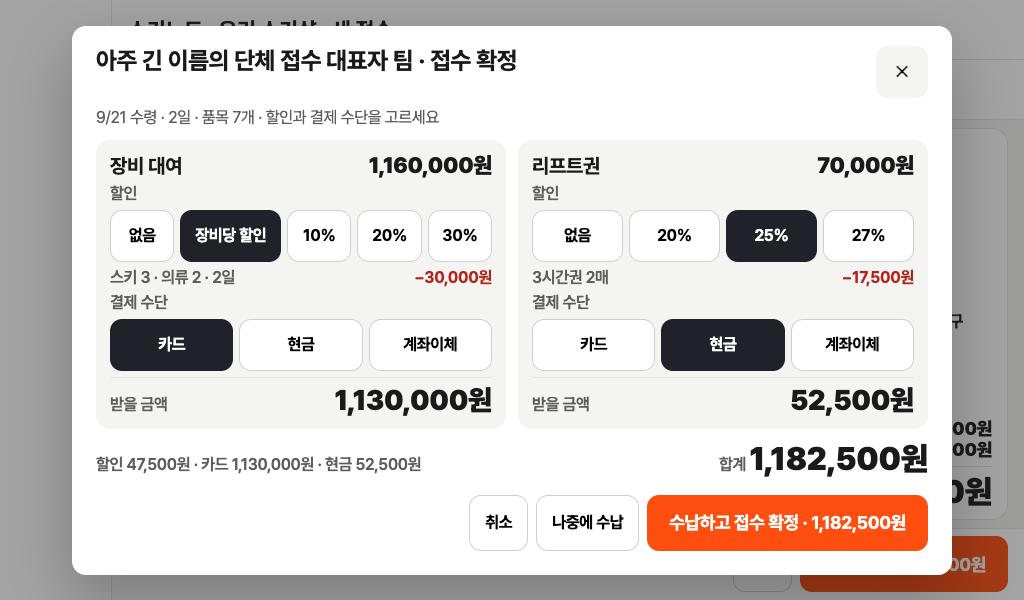
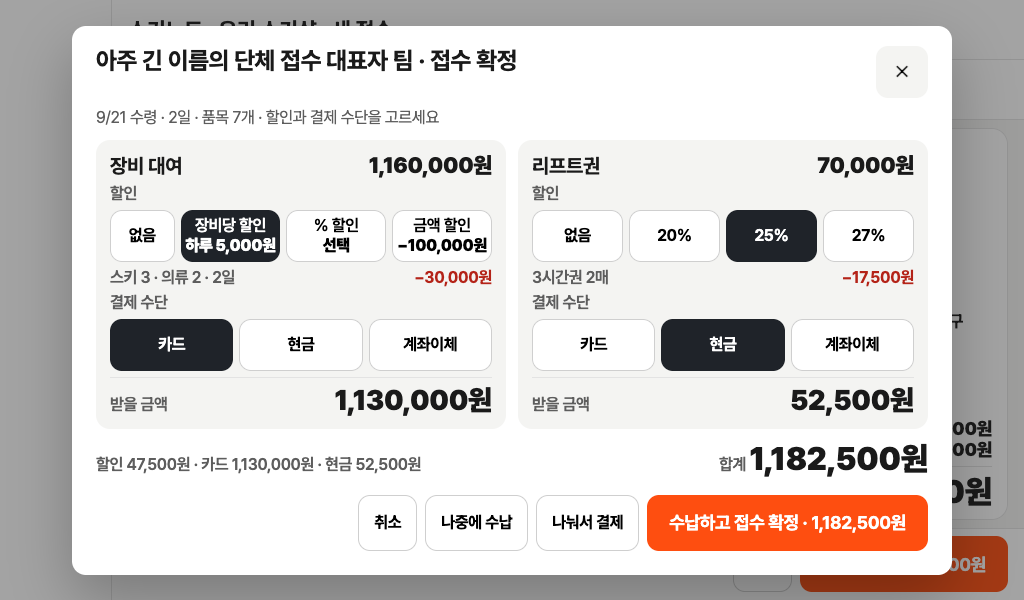
design(higgsfield): add the revised confirm window and the split-payment mockup
Previews and records for S07R (one discount at a time: per item per day,
percent or amount off the total; "나눠서 결제" entry) and S08 (per-person
split payment, UI only for the later card-reader work). docs/44 now holds
the owner's answers: resort template values come with the real database,
discounts never stack, split payment is drawn but not built yet.

diff --git a/design/higgsfield/pos-settings-v1/index.html b/design/higgsfield/pos-settings-v1/index.html
@@ -1,11 +1,13 @@
 <!doctype html><html lang="ko"><meta charset="utf-8"><meta name="viewport" content="width=device-width,initial-scale=1"><title>스키노트 시안 · 매장 설정과 접수 확정</title>
 <style>body{margin:0;background:#f3f1f8;color:#242031;font:17px/1.6 system-ui,sans-serif}header,main{max-width:1400px;margin:auto;padding:28px}h1{margin:0 0 6px}main{display:grid;grid-template-columns:repeat(auto-fill,minmax(520px,1fr));gap:20px;padding-top:0}article{background:#fff;border-radius:14px;padding:16px;box-shadow:0 1px 0 #ded9ec}h2{margin:0;font-size:19px}.v{margin:2px 0 10px;color:#5f33e1;font-weight:700;font-size:15px}img{width:100%;border-radius:10px;border:1px solid #e3e3e3;display:block}article p:last-child{margin:10px 0 0;font-size:16px}</style>
-<header><h1>스키노트 시안 · 매장 설정과 접수 확정 (pos-settings-v1)</h1><p>2026-09-21 · 6장 · 18 크레딧 · 다시 뽑기 0 · 요청서 <a href="../../../docs/44-higgsfield-settings-payment-screens.md">docs/44</a> · <a href="fit-check/index.html">실제 크기 검사</a></p></header>
+<header><h1>스키노트 시안 · 매장 설정과 접수 확정 (pos-settings-v1)</h1><p>2026-09-21 · 8장 · 24 크레딧 · 다시 뽑기 0 · 요청서 <a href="../../../docs/44-higgsfield-settings-payment-screens.md">docs/44</a> · <a href="fit-check/index.html">실제 크기 검사</a></p></header>
 <main>
 <article><h2>S01 · 관리 · 매장 설정 · 수령 장소(구역별)</h2><p class="v">통과 · 참조 M06 + M01</p><a href="s01-settings-places.jpg"><img src="s01-settings-places.jpg" alt="관리 · 매장 설정 · 수령 장소(구역별)" loading="lazy"></a><p>구역 칩(만선 5 · 설천 4 · 기타 3 · 구역 추가) 아래에 고른 구역의 장소만 행으로 보인다. 왼쪽 탭 8개(할인 추가), 하단에 `스키장 템플릿` · `장소 추가`. 레일 7개 · 헤더 완전. 샘플 표기: `매장 정보` 옆 숫자 0은 요청에 없던 값(기록만).</p></article>
 <article><h2>S02 · 팝업 · 스키장 템플릿</h2><p class="v">통과 · 참조 M06 + P20</p><a href="s02-popup-resort-template.jpg"><img src="s02-popup-resort-template.jpg" alt="팝업 · 스키장 템플릿" loading="lazy"></a><p>왼쪽에서 스키장을 고르면 오른쪽에 채워지는 값(구역 · 수령 장소 · 반납 타임 · 리프트권 권종)이 보인다. `요금과 할인은 바뀌지 않습니다` · `이미 있는 값은 지우지 않고 없는 항목만 추가합니다` 안내 포함. 어두운 배경(부모 화면)의 레일 오탈자는 배경이라 기록만.</p></article>
 <article><h2>S04 · 관리 · 매장 설정 · 할인</h2><p class="v">통과 · 참조 M06 + M01</p><a href="s04-settings-discounts.jpg"><img src="s04-settings-discounts.jpg" alt="관리 · 매장 설정 · 할인" loading="lazy"></a><p>할인 종류 칩 3개(장비당 · 장비 전체 · 리프트권) 아래에 규칙 행. 장비당 할인은 품목마다 금액(스키 −5,000원 등)을 가진다. 안내 줄 `접수 확정 창의 할인 버튼으로 나옵니다 · 리프트권은 따로 계산`.</p></article>
 <article><h2>S05 · 새 접수 · 3 일정·장소 (구역 · 반납 타임 4개)</h2><p class="v">통과(메모) · 참조 P12 + P01</p><a href="s05-intake-schedule-areas.jpg"><img src="s05-intake-schedule-areas.jpg" alt="새 접수 · 3 일정·장소 (구역 · 반납 타임 4개)" loading="lazy"></a><p>수령 장소는 `매장 수령` + 구역 버튼(만선 · 설천 · 기타)만 보이고, 고른 구역 버튼은 두 줄(`만선` / `티롤 앞`)로 바뀐다. 반납 시간은 4개 + `직접`. 요약 아래가 `장비 대여` · `리프트권` · `합계`로 나뉜다. 메모: 첫 줄 `수령일`만 이름표가 버튼 위에 그려짐(나머지는 왼쪽) — 구현은 다섯 줄 모두 왼쪽 이름표. 두 줄 버튼의 작은 글자가 13px쯤으로 그려짐 — 구현은 16px.</p></article>
 <article><h2>S06 · 팝업 · 수령 장소 선택(구역별)</h2><p class="v">통과 · 참조 P12 + P20</p><a href="s06-popup-place.jpg"><img src="s06-popup-place.jpg" alt="팝업 · 수령 장소 선택(구역별)" loading="lazy"></a><p>구역 칩으로 구역을 바꾸고 장소를 3열 큰 버튼(64px)으로 고른다. 빈 칸은 `직접 입력`. 하단 `취소` · `매장 수령으로` · `이 장소로 선택`. 어두운 배경의 깨진 시간 글자는 배경이라 기록만.</p></article>
-<article><h2>S07 · 팝업 · 접수 확정 · 할인과 수납</h2><p class="v">통과(메모) · 참조 P12 + P21</p><a href="s07-popup-confirm-payment.jpg"><img src="s07-popup-confirm-payment.jpg" alt="팝업 · 접수 확정 · 할인과 수납" loading="lazy"></a><p>장비 대여와 리프트권을 두 칸으로 나눠 각각 금액 · 할인 버튼 · 할인액 · 결제 수단 · 받을 금액을 보인다. 아래에 합계, 하단 `취소` · `나중에 수납` · `수납하고 접수 확정 · N원`. 메모: 왼쪽 아래 요약의 `받을 47,500원`은 `할인 47,500원`의 오기(한 낱말) — 구현은 `할인`. 주 버튼 글자가 작게 그려짐 — 구현은 18px.</p></article>
+<article><h2>S07 · 팝업 · 접수 확정 · 할인과 수납</h2><p class="v">S07R로 대체 · 참조 P12 + P21</p><a href="s07-popup-confirm-payment.jpg"><img src="s07-popup-confirm-payment.jpg" alt="팝업 · 접수 확정 · 할인과 수납" loading="lazy"></a><p>장비 대여와 리프트권을 두 칸으로 나눠 각각 금액 · 할인 버튼 · 할인액 · 결제 수단 · 받을 금액을 보인다. 아래에 합계, 하단 `취소` · `나중에 수납` · `수납하고 접수 확정 · N원`. 메모: 왼쪽 아래 요약의 `받을 47,500원`은 `할인 47,500원`의 오기(한 낱말) — 구현은 `할인`. 주 버튼 글자가 작게 그려짐 — 구현은 18px.</p></article>
+<article><h2>S07R · 팝업 · 접수 확정 · 할인 종류 넷 + 나눠서 결제 (S07 고침)</h2><p class="v">통과 · 참조 P12 + S07</p><a href="s07r-popup-confirm-payment.jpg"><img src="s07r-popup-confirm-payment.jpg" alt="팝업 · 접수 확정 · 할인 종류 넷 + 나눠서 결제 (S07 고침)" loading="lazy"></a><p>사용자 답변(2026-09-21) 반영: 장비 할인은 `없음` · `장비당 할인 / 하루 5,000원` · `% 할인 / 선택` · `금액 할인 / 선택` 네 칸 중 하나만. 숫자가 규칙과 맞음(스키 3 · 의류 2 · 2일 → −42,000원, 합계 170,500원, 요약 `할인 59,500원 · 카드 118,000원 · 현금 52,500원`). 하단에 `나눠서 결제` 입구. 두 줄 버튼의 작은 글자는 구현에서 16px.</p></article>
+<article><h2>S08 · 팝업 · 나눠서 결제(일행별)</h2><p class="v">통과 · 참조 P12 + S07</p><a href="s08-popup-split-payment.jpg"><img src="s08-popup-split-payment.jpg" alt="팝업 · 나눠서 결제(일행별)" loading="lazy"></a><p>더치페이 창. 나누는 방법 세 칸(`일행별` · `똑같이 나누기` · `금액 직접 나누기`), 일행마다 품목 · 금액 · `카드/현금` · `결제`(끝나면 초록 `결제 완료`), 아래 `남은 금액`, 하단 `‹ 접수 확정 창으로` · `남은 금액은 나중에 수납` · 주 버튼 `다음 결제 · 이서연 70,250원`. 화면만 그린 것이고 카드 단말 연동은 나중.</p></article>
 </main></html>

diff --git a/design/higgsfield/pos-settings-v1/fit-check/index.html b/design/higgsfield/pos-settings-v1/fit-check/index.html
@@ -25,7 +25,8 @@ button{font:inherit;letter-spacing:inherit;min-height:52px;border:0;border-radiu
 .btns{display:flex;gap:6px;min-width:0}.minus{color:#b42318;font-weight:700}.take{display:flex;justify-content:space-between;align-items:baseline;box-shadow:inset 0 1px 0 #e3e3e3;padding-top:6px;color:#5d5d5d;font-weight:600}.take b{color:#1a1a1a;font-size:28px;line-height:34px}
 .dfoot{display:flex;justify-content:flex-end;gap:8px;padding-top:6px}.chips{display:flex;gap:8px}.grid{display:grid;grid-template-columns:repeat(3,1fr);gap:8px}.grid button{min-height:64px;font-size:20px}
 .note{color:#5d5d5d;line-height:22px}
-body[data-show="s06"] #d6,body[data-show="s07"] #d7{display:flex}
+body[data-show="s06"] #d6,body[data-show="s07"] #d7,body[data-show="s08"] #d8{display:flex}
+.people{display:flex;flex-direction:column;gap:6px}.person{display:flex;align-items:center;gap:12px;min-height:64px;padding:6px 8px 6px 14px;border-radius:12px;box-shadow:inset 0 0 0 1px #e3e3e3;min-width:0}.person strong{flex:0 1 auto;min-width:0;overflow:hidden;white-space:nowrap;font-size:20px}.person>span:not(.btns):not(.done){flex:1 1 0;min-width:0;overflow:hidden;white-space:nowrap;color:#5d5d5d}.person>b{flex:0 0 auto;font-size:20px;white-space:nowrap}.person .btns{flex:0 0 150px}.done{flex:0 0 96px;text-align:center;background:#247a3d;color:#fff;border-radius:999px;font-weight:700;line-height:32px}.person>.sec{flex:0 0 96px}
 </style>
 <body>
 <div class="frame"><div class="rail"></div><div class="work">
@@ -53,11 +54,20 @@ body[data-show="s06"] #d6,body[data-show="s07"] #d7{display:flex}
   <div class="dfoot"><button class="sec">취소</button><button class="sec">매장 수령으로</button><button class="primary">이 장소로 선택</button></div></div></div></div>
 <div class="dim" id="d7"><div class="dlg" id="dlg7" style="--w:880px"><header><h2>아주 긴 이름의 단체 접수 대표자 팀 · 접수 확정</h2><button>✕</button></header><div class="in"><p class="sub">9/21 수령 · 2일 · 품목 7개 · 할인과 결제 수단을 고르세요</p>
   <div class="cards">
-    <div class="card"><div class="head"><span>장비 대여</span><b>1,160,000원</b></div><span class="lab">할인</span><div class="btns"><button class="opt">없음</button><button class="opt on" style="flex:1.7 1 0">장비당 할인</button><button class="opt">10%</button><button class="opt">20%</button><button class="opt">30%</button></div><div class="line"><span>스키 3 · 의류 2 · 2일</span><span class="minus">−30,000원</span></div><span class="lab">결제 수단</span><div class="btns"><button class="opt on">카드</button><button class="opt">현금</button><button class="opt">계좌이체</button></div><div class="take"><span>받을 금액</span><b>1,130,000원</b></div></div>
+    <div class="card"><div class="head"><span>장비 대여</span><b>1,160,000원</b></div><span class="lab">할인</span><div class="btns"><button class="opt" style="flex:.6 1 0">없음</button><button class="opt two on"><small>장비당 할인</small><b>하루 5,000원</b></button><button class="opt two"><small>% 할인</small><b>선택</b></button><button class="opt two"><small>금액 할인</small><b>−100,000원</b></button></div><div class="line"><span>스키 3 · 의류 2 · 2일</span><span class="minus">−30,000원</span></div><span class="lab">결제 수단</span><div class="btns"><button class="opt on">카드</button><button class="opt">현금</button><button class="opt">계좌이체</button></div><div class="take"><span>받을 금액</span><b>1,130,000원</b></div></div>
     <div class="card"><div class="head"><span>리프트권</span><b>70,000원</b></div><span class="lab">할인</span><div class="btns"><button class="opt">없음</button><button class="opt">20%</button><button class="opt on">25%</button><button class="opt">27%</button></div><div class="line"><span>3시간권 2매</span><span class="minus">−17,500원</span></div><span class="lab">결제 수단</span><div class="btns"><button class="opt">카드</button><button class="opt on">현금</button><button class="opt">계좌이체</button></div><div class="take"><span>받을 금액</span><b>52,500원</b></div></div>
   </div>
   <div class="line total"><span id="split">할인 47,500원 · 카드 1,130,000원 · 현금 52,500원</span><span>합계 <b>1,182,500원</b></span></div>
-  <div class="dfoot"><button class="sec">취소</button><button class="sec">나중에 수납</button><button class="primary">수납하고 접수 확정 · 1,182,500원</button></div></div></div></div>
+  <div class="dfoot"><button class="sec">취소</button><button class="sec">나중에 수납</button><button class="sec">나눠서 결제</button><button class="primary">수납하고 접수 확정 · 1,182,500원</button></div></div></div></div>
+<div class="dim" id="d8"><div class="dlg" id="dlg8" style="--w:880px"><header><h2>아주 긴 이름의 단체 접수 대표자 팀 · 나눠서 결제</h2><button>✕</button></header><div class="in"><p class="sub">받을 금액 1,170,500원 · 일행 7명 · 사람마다 따로 결제합니다</p>
+  <div class="row" style="gap:8px"><div class="chips" style="flex:1 1 0"><button class="opt on">일행별</button><button class="opt">똑같이 나누기</button><button class="opt">금액 직접 나누기</button></div><span style="flex:0 0 auto;display:flex;gap:6px;align-items:center;font-weight:600"><button style="width:52px">‹</button> 1 / 3쪽 <button style="width:52px">›</button></span></div>
+  <div class="people">
+    <div class="person"><strong>김민수</strong><span>스키 1 · 의류 1 · 3시간권 1</span><b>1,070,250원</b><span class="btns"><button class="opt on">카드</button><button class="opt">현금</button></span><span class="done">결제 완료</span></div>
+    <div class="person"><strong>한국대학교 스키동아리 회장</strong><span>스키 1 · 의류 1 · 3시간권 1</span><b>70,250원</b><span class="btns"><button class="opt">카드</button><button class="opt on">현금</button></span><button class="sec">결제</button></div>
+    <div class="person"><strong>박지호</strong><span>스키 1</span><b>30,000원</b><span class="btns"><button class="opt on">카드</button><button class="opt">현금</button></span><button class="sec">결제</button></div>
+  </div>
+  <div class="line total"><span>결제 완료 1명 · 1,070,250원</span><span>남은 금액 <b>100,250원</b></span></div>
+  <div class="dfoot"><button class="sec">‹ 접수 확정 창으로</button><button class="sec">남은 금액은 나중에 수납</button><button class="primary">다음 결제 · 한국대학교 스키동아리 회장 70,250원</button></div></div></div></div>
 </div>
 <script>document.body.dataset.show=location.hash.slice(1)||'s05';</script>
 </body></html>

diff --git a/docs/44-higgsfield-settings-payment-screens.md b/docs/44-higgsfield-settings-payment-screens.md
@@ -1,6 +1,6 @@
 # 44. 힉스필드 시안 · 매장 설정(구역 · 템플릿 · 할인)과 접수 확정 창
 
-작성 2026-09-21 · 묶음 [`design/higgsfield/pos-settings-v1/`](../design/higgsfield/pos-settings-v1/index.html) · 6장 · 18 크레딧 · 다시 뽑기 0 · 브랜치 `feat/pos-ui-v4`
+작성 2026-09-21 · 묶음 [`design/higgsfield/pos-settings-v1/`](../design/higgsfield/pos-settings-v1/index.html) · 8장 · 24 크레딧 · 다시 뽑기 0 · 브랜치 `feat/pos-ui-v4`
 
 ## 1. 왜 다시 그렸나
 
@@ -12,10 +12,11 @@ v4를 체험해 본 뒤 나온 요청이다(2026-09-21).
 4. 접수 화면의 수령 장소도 장소가 10개를 넘으면 깨지므로 **구역만 버튼으로** 보이고 장소는 팝업에서 고른다.
 5. 접수 직전에 **할인**을 고른다: 장비당 N원(예: 스키 5,000원씩), 장비 전체 %, 리프트권은 따로 %(20 · 25 · 27% 등). 매장 설정에서 정한다.
 6. **접수 확정할 때 금액을 계산해 그 자리에서 수납**한다. 장비는 카드, 리프트권은 현금으로 받는 일이 많으니 **둘을 나눠서 결제 수단을 고른다.**
+7. (추가) **일행마다 따로 계산**하는 경우(더치페이)의 화면. 나중에 카드 단말을 붙였을 때 쓴다. 지금은 **화면 시안만.**
 
 확인한 사실: 이 기능들은 v4 작업에서 지워진 것이 아니라 **포스 화면에 구현된 적이 없다.** `docs/35`(51 매장 설정 탭 `수령 장소 · 할인 · 수령·반납 시간` / 41-1 선택 그룹 `수령 장소 · 구역 · 할인율`)에는 있었지만, v3부터 포스의 매장 설정은 요금 · 장소(한 줄 목록) · 차량 · 반납 타임 · 직원 · 매장 정보 · 야간 기준만 있었고 v4 시안도 그 상태를 기준으로 그렸다. 접수 확정 때 수납하는 창은 어디에도 없었다(수납은 접수 상세 · 준비·지급 카드 · 정산·마감에서 따로). v4에서 새로 생긴 잘못은 하나다: 3단계 `반납 시간`이 설정의 앞 3개만 보였다.
 
-## 2. 시안 6장
+## 2. 시안 8장
 
 기준 화면은 새로 만들지 않고 이미 검수한 `pos-rest-v1`의 M06(매장 설정) · P12(새 접수 3단계) · P20/P21(팝업)을 참조로 넘겼다. 설정은 `requests.json` 그대로: `gpt_image_2_5` · high · 2k · 27:16 · 장당 3 크레딧. 워크스페이스는 개인 워크스페이스 그대로.
 
@@ -26,14 +27,19 @@ v4를 체험해 본 뒤 나온 요청이다(2026-09-21).
 | S04 | 관리 · 매장 설정 · 할인 | M06 + M01 | 통과 |
 | S05 | 새 접수 · 3 일정·장소(구역 버튼 · 반납 타임 4개) | P12 + P01 | 통과(메모) |
 | S06 | 팝업 · 수령 장소 선택 | P12 + P20 | 통과 |
-| S07 | 팝업 · 접수 확정 · 할인과 수납 | P12 + P21 | 통과(메모) |
+| S07 | 팝업 · 접수 확정 · 할인과 수납(첫 판) | P12 + P21 | S07R로 대체 |
+| S07R | 팝업 · 접수 확정 · 할인 종류 넷 + `나눠서 결제` 입구 | P12 + S07 | 통과 |
+| S08 | 팝업 · 나눠서 결제(일행별 · 더치페이) | P12 + S07 | 통과 |
 
 S03(반납 타임 설정 화면)은 지금의 행 목록과 모양이 같아서 뽑지 않았다.
+
+S07R · S08은 사용자 답변(3절 아래)을 받은 뒤 그린 둘째 묶음이다. S07R은 다시 뽑기가 아니라 내용이 바뀐 새 판이다: 할인 칸이 넷으로 바뀌고 `나눠서 결제` 입구가 생겼으며, 첫 판의 `받을/할인` 오기와 예시 할인액도 바로잡혔다.
 
 검수 메모(다시 뽑지 않음 · 구조 결함 아님):
 
 - S05: 첫 줄 `수령일`만 이름표가 버튼 위에 그려졌다. 구현은 지금처럼 다섯 줄 모두 왼쪽 이름표. 두 줄 버튼의 작은 글자가 13px쯤으로 그려졌다 → 구현은 16px.
-- S07: 왼쪽 아래 요약의 `받을 47,500원`은 `할인 47,500원`의 오기(한 낱말). 장비 할인액 `−30,000원`은 예시 숫자다(3절 규칙대로면 스키 3 · 의류 2 · 2일은 −42,000원). 주 버튼 글자가 작게 그려졌다 → 구현은 18px.
+- S04: 할인 종류 칩이 셋으로 그려졌다(장비당 · 장비 전체 · 리프트권). 답변에 따라 구현은 넷: `장비당 할인` · `% 할인` · `금액 할인` · `리프트권 할인`. 모양이 같아 다시 뽑지 않는다.
+- S07(첫 판): 왼쪽 아래 요약의 `받을 47,500원`은 `할인 47,500원`의 오기(한 낱말). 장비 할인액 `−30,000원`은 예시 숫자다(3절 규칙대로면 스키 3 · 의류 2 · 2일은 −42,000원). 주 버튼 글자가 작게 그려졌다 → 구현은 18px.
 - S01의 `매장 정보 0`, 팝업 뒤 어두운 배경의 오탈자는 샘플·배경이라 기록만.
 
 ## 3. 그림에 안 보이는 동작 (구현 전에 확인할 것)
@@ -42,10 +48,11 @@ S03(반납 타임 설정 화면)은 지금의 행 목록과 모양이 같아서 
 |---|---|---|
 | 1 | 구역 | 매장 설정에 구역 목록(순서 있음)을 두고, 장소는 구역에 속한다. 지금 있는 장소는 이름이 구역 이름으로 시작하면 그 구역으로, 아니면 `기타`로 옮긴다. |
 | 2 | 접수의 수령 장소 | `매장 수령` + 구역 버튼(최대 3개 · 넘으면 끝이 `더 보기`). 구역을 누르면 S06 창: 구역 칩 + 장소 큰 버튼 3열 × 3줄, 넘으면 쪽 나눔, `직접 입력`. 고르면 구역 버튼이 두 줄(`만선` / `티롤 앞`)로 바뀐다. |
-| 3 | 스키장 템플릿 | 구역 · 수령 장소 · 반납 타임 · 리프트권 권종을 채운다. **요금과 할인은 건드리지 않는다.** 이미 있는 값은 지우지 않고 없는 항목만 추가한다. 무주덕유산리조트 · 지산포레스트리조트부터. **각 스키장의 실제 장소 · 권종 목록은 받아서 넣어야 한다**(지금은 예시 값). |
+| 3 | 스키장 템플릿 | 구역 · 수령 장소 · 반납 타임 · 리프트권 권종을 채운다. **요금과 할인은 건드리지 않는다.** 이미 있는 값은 지우지 않고 없는 항목만 추가한다. 무주덕유산리조트 · 지산포레스트리조트부터. **실제 장소 · 권종 목록은 나중에 실제 DB를 연결할 때 한 번에 정리한다(사용자 · 2026-09-21).** 그때까지는 예시 값을 넣어 둔다. |
 | 4 | 반납 타임 | 기본값에 `오전타임 후 12:00` 추가. 접수 화면에는 설정에 있는 대로 다 나오고, 폭이 모자라면 앞 3개 + `더 보기`(창에서 고름). |
-| 5 | 할인 규칙 | ① 장비당 할인: 품목마다 금액(스키 −5,000원 …) × 수량 × 이용 일수. ② 장비 전체 할인: 장비 합계의 N%. ③ 리프트권 할인: 리프트권 합계의 N%. ①과 ②는 둘 중 하나만 고른다. %는 종류마다 3개까지, 계산은 10원 미만 버림. 할인액은 품목 행의 할인으로 나눠 저장한다(지금 자료 구조 그대로). |
-| 6 | 접수 확정 창 | `접수 확정`을 누르면 S07 창. 장비 · 리프트권 각각 금액 → 할인 → 받을 금액 → 결제 수단(카드 · 현금 · 계좌이체). `수납하고 접수 확정`은 접수를 만들고 수납을 결제 수단별로 따로 기록한다(장비 카드 1건 + 리프트권 현금 1건). `나중에 수납`은 할인만 적용해 미수로 접수한다(예약). 장비만 또는 리프트권만 있으면 한 칸만 보인다. `일행·장비 추가`도 같은 창(`추가 확정`). |
+| 5 | 할인 규칙 | **확정(사용자 · 2026-09-21): 중복 없이 하나만.** 장비 쪽은 `없음` · `장비당 할인`(품목마다 금액 × 수량 × **이용 일수** — 하루 기준, 예: 스키 하루 5,000원) · `% 할인`(장비 합계의 N%) · `금액 할인`(**총 금액에서 N원**) 중 하나. `% 할인`과 `금액 할인`은 누르면 매장 설정에 넣어 둔 값(예: 10 · 20 · 30% / 5,000 · 10,000원)과 `직접 입력`을 고르는 작은 창이 뜨고, 고른 값이 버튼 둘째 줄에 보인다. 리프트권은 따로 `없음` · 20 · 25 · 27% 같은 % 버튼. 계산은 10원 미만 버림. 할인액은 품목 행의 할인으로 나눠 저장한다(지금 자료 구조 그대로). `금액 할인`은 장비 합계에서 뺀다(리프트권은 %만). |
+| 6 | 접수 확정 창 | `접수 확정`을 누르면 S07R 창. 장비 · 리프트권 각각 금액 → 할인 → 받을 금액 → 결제 수단(카드 · 현금 · 계좌이체). `수납하고 접수 확정`은 접수를 만들고 수납을 결제 수단별로 따로 기록한다(장비 카드 1건 + 리프트권 현금 1건). `나중에 수납`은 할인만 적용해 미수로 접수한다(예약). 장비만 또는 리프트권만 있으면 한 칸만 보인다. `일행·장비 추가`도 같은 창(`추가 확정`). |
+| 6-1 | 나눠서 결제(S08) | **화면만 먼저 그려 둔다(사용자 · 2026-09-21). 구현은 카드 단말을 붙일 때.** `일행별`은 그 사람 품목의 할인 뒤 금액, `똑같이 나누기`는 받을 금액 ÷ 인원(나머지는 첫 사람), `금액 직접 나누기`는 숫자판. 사람마다 `카드/현금`을 고르고 `결제`를 누르면 그 금액만 수납으로 기록한다(자료는 이미 품목별 수납 배분을 지원). 주 버튼은 늘 다음 사람(`다음 결제 · 이서연 70,250원`), 다 끝나면 `접수 확정`. 3명을 넘으면 쪽으로 넘긴다. |
 | 7 | 결제 수단 기본값 | 장비는 카드, 리프트권은 현금. |
 
 ## 4. 실제 크기 검사
@@ -58,7 +65,8 @@ S03(반납 타임 설정 화면)은 지금의 행 목록과 모양이 같아서 
 | 1024×768 | 잘림 0 | 잘림 0 | 잘림 0 |
 | 907×648 | 반납 타임 5칸의 이름표가 4px 넘침 · 요약 `수령` 줄 넘침 | 잘림 0 | 잘림 0 |
 
-- 접수 확정 창은 1024×600에 **여유 3px로 들어간다.** 줄을 더 넣을 자리는 없다. 창 폭은 880px(지금 창은 760px)로 넓힌다.
+- 나눠서 결제 창(S08)은 일행 3명 + 쪽수 + 긴 이름 · 7자리 금액으로 **526px**(1024×600 · 907×648 · 1024×768 모두 잘림 0). 한 쪽에 3명까지다.
+- 접수 확정 창은 할인 네 칸 · 하단 버튼 네 개로 바꾼 뒤에도 549px다. 1024×600에 **여유 3px로 들어간다.** 줄을 더 넣을 자리는 없다. 창 폭은 880px(지금 창은 760px)로 넓힌다.
 - 907×648의 넘침은 구현 규칙으로 푼다: 반납 타임은 폭이 모자라면 앞 3개 + `더 보기`, 요약 줄은 지금처럼 조각을 빼서 맞춘다.
 
 ## 5. 구현 순서(시안 확인 뒤)
@@ -67,4 +75,5 @@ S03(반납 타임 설정 화면)은 지금의 행 목록과 모양이 같아서 
 2. 매장 설정 화면: 수령 장소(구역 칩 · 구역 추가) · 할인 탭 · 스키장 템플릿 창 · 반납 타임 기본값.
 3. 새 접수 3단계: 구역 버튼 + 수령 장소 창, 반납 타임 전부(+ `더 보기`), 요약의 장비 · 리프트권 나눔.
 4. 접수 확정 창: 할인 · 결제 수단 · 수납 기록 · `나중에 수납`.
+   - `나눠서 결제`(S08)는 이번 구현 범위가 아니다. 입구 버튼도 카드 단말을 붙일 때 같이 넣는다.
 5. 검사: 업무 검사 · 규칙 검사에 새 화면과 창 추가(1024×600 · 907×648 포함), `docs/42` · `docs/43` 갱신.

diff --git a/design/higgsfield/README.md b/design/higgsfield/README.md
@@ -50,4 +50,4 @@
 | `pos-main-v1/` | POS 메인 화면 8종 + 목록 비교안 1종 | [docs/38-higgsfield-pos-main-screens.md](../../docs/38-higgsfield-pos-main-screens.md) | 9장 생성·검수 완료 (2026-09-21, 14장·42 크레딧) · [보기](pos-main-v1/index.html) |
 | `pos-rest-v1/` | 나머지 화면 33종: 포스 화면 9 · 팝업 13 · 관리 8 · 기사 태블릿 3 | [docs/40-higgsfield-pos-rest-screens.md](../../docs/40-higgsfield-pos-rest-screens.md) | 같은 템플릿(앵커 P01) + 기준 화면 4종(P02R 카드 목록 · M01 관리 · P20 팝업 · D01 기사) · [보기](pos-rest-v1/index.html) |
 | `driver-phone-v1/` | 기사 휴대폰 화면 4종(차량 운행 · 배달 처리 · 차량 보관 · 못 받음·방문 결과) · 세로 9:16 · 기준 360×640 | [docs/41-higgsfield-driver-phone-screens.md](../../docs/41-higgsfield-driver-phone-screens.md) | 4장 · 12 크레딧 · 재생성 0 · 실제 크기 검사 포함 · [보기](driver-phone-v1/index.html) |
-| `pos-settings-v1/` | 매장 설정(구역별 수령 장소 · 스키장 템플릿 · 할인) 3종 + 새 접수 3단계(구역 버튼 · 반납 타임) 1종 + 팝업 2종(수령 장소 선택 · 접수 확정의 할인·수납) | [docs/44-higgsfield-settings-payment-screens.md](../../docs/44-higgsfield-settings-payment-screens.md) | 6장 · 18 크레딧 · 재생성 0 · 실제 크기 검사 포함(2026-09-21) · [보기](pos-settings-v1/index.html) |
+| `pos-settings-v1/` | 매장 설정(구역별 수령 장소 · 스키장 템플릿 · 할인) 3종 + 새 접수 3단계(구역 버튼 · 반납 타임) 1종 + 팝업 2종(수령 장소 선택 · 접수 확정의 할인·수납) | [docs/44-higgsfield-settings-payment-screens.md](../../docs/44-higgsfield-settings-payment-screens.md) | 8장 · 24 크레딧 · 재생성 0(S07R은 답변 반영 새 판) · 나눠서 결제(더치페이) 화면 포함 · 실제 크기 검사 포함(2026-09-21) · [보기](pos-settings-v1/index.html) |
